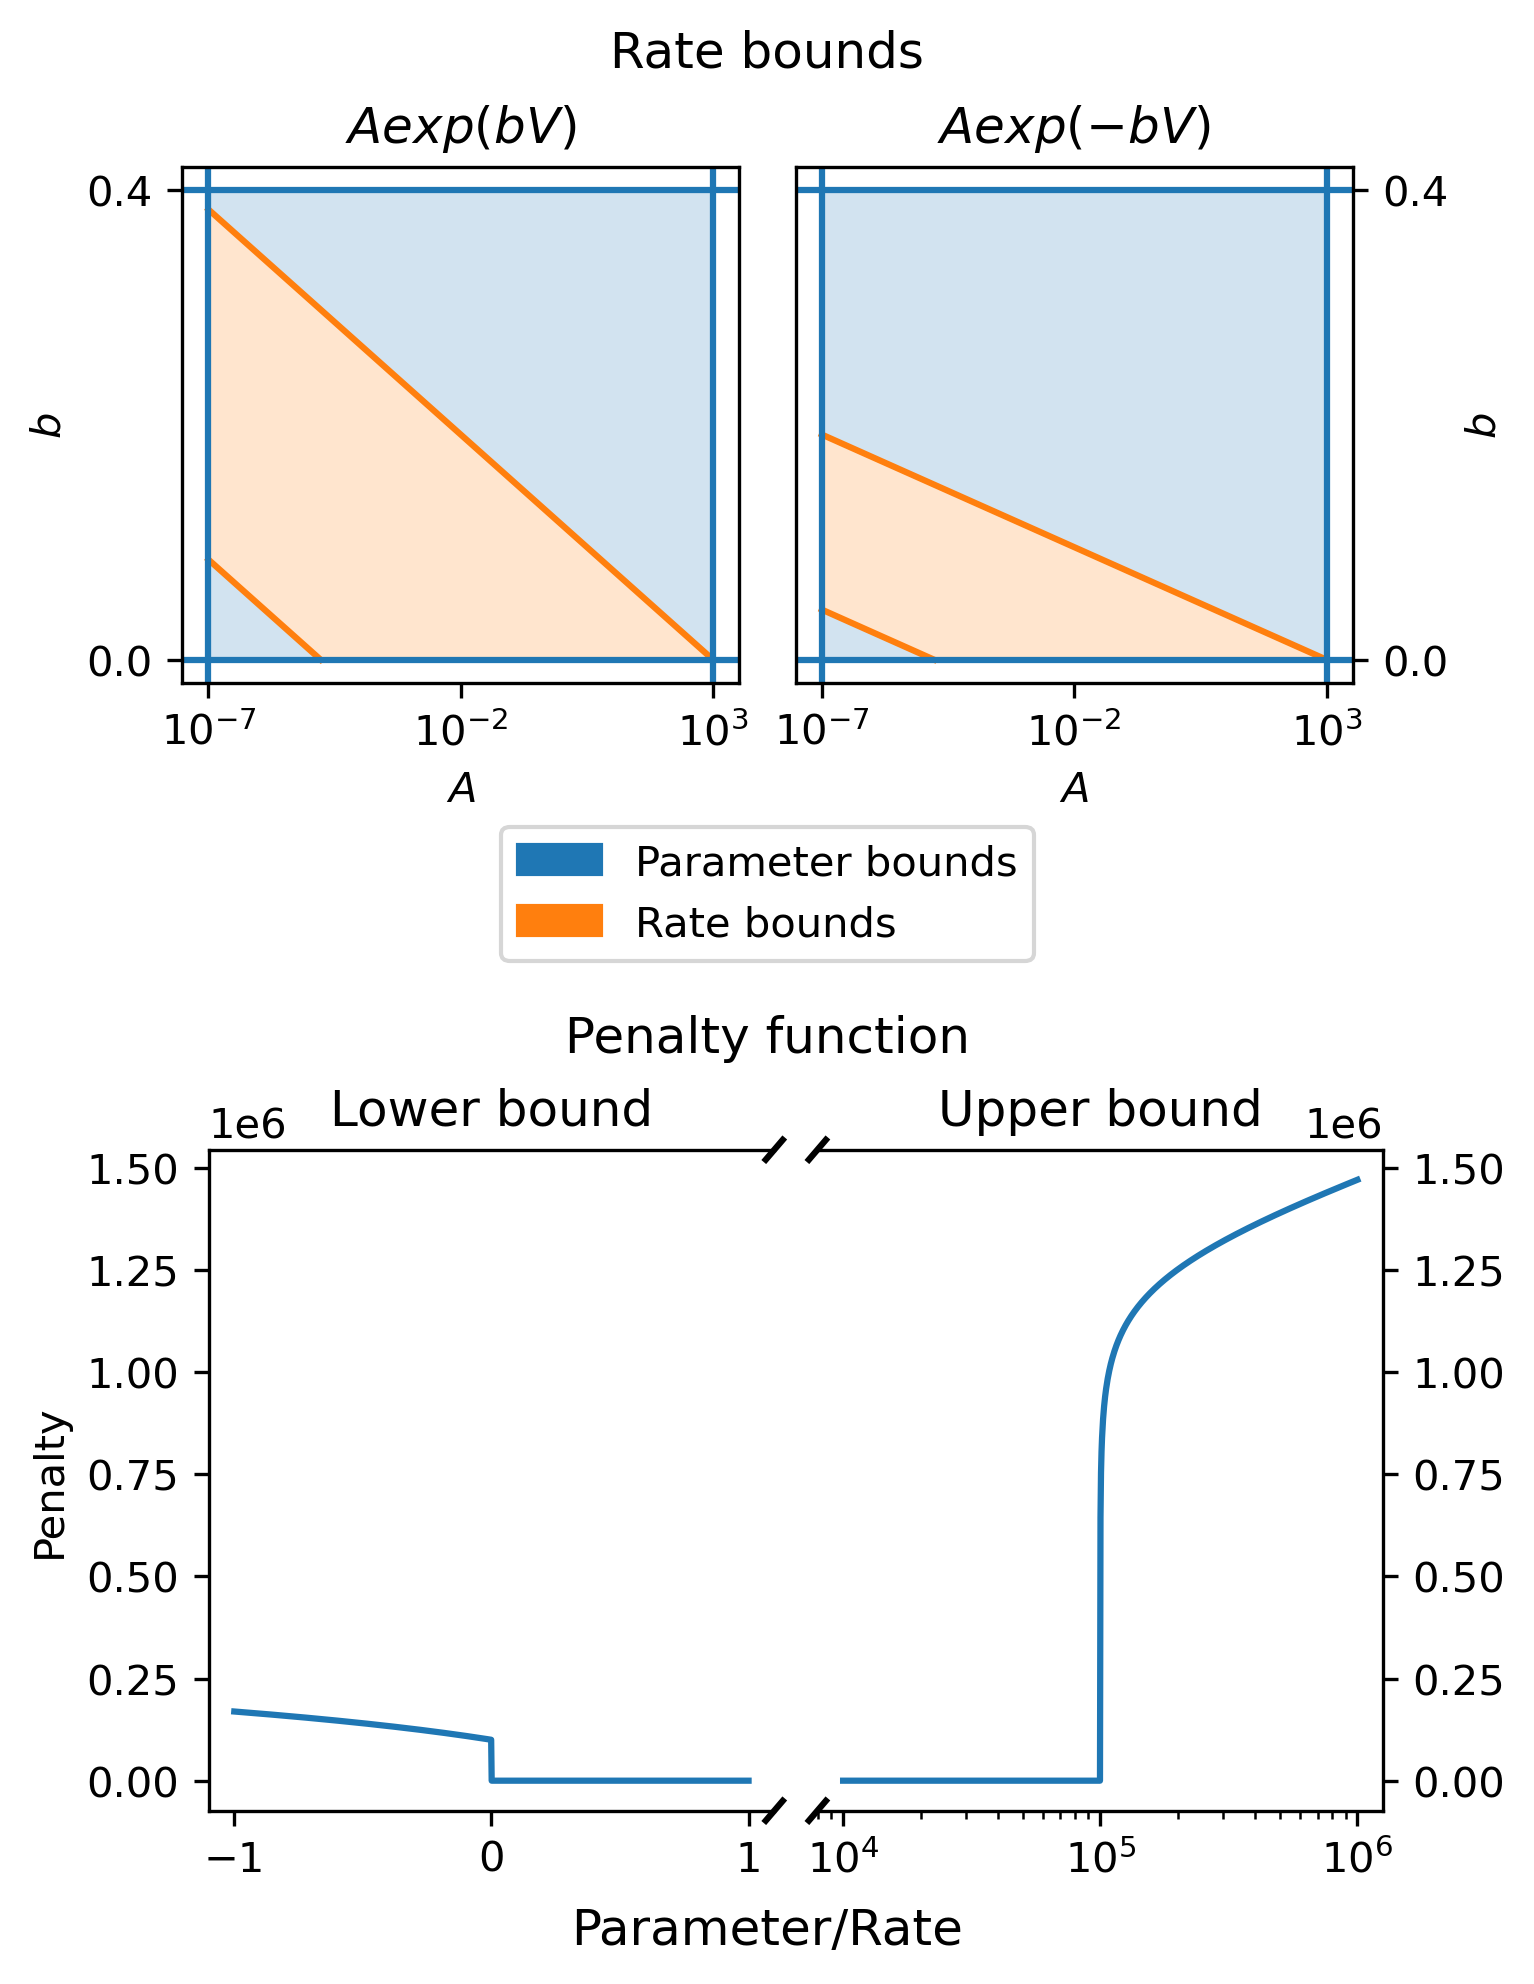
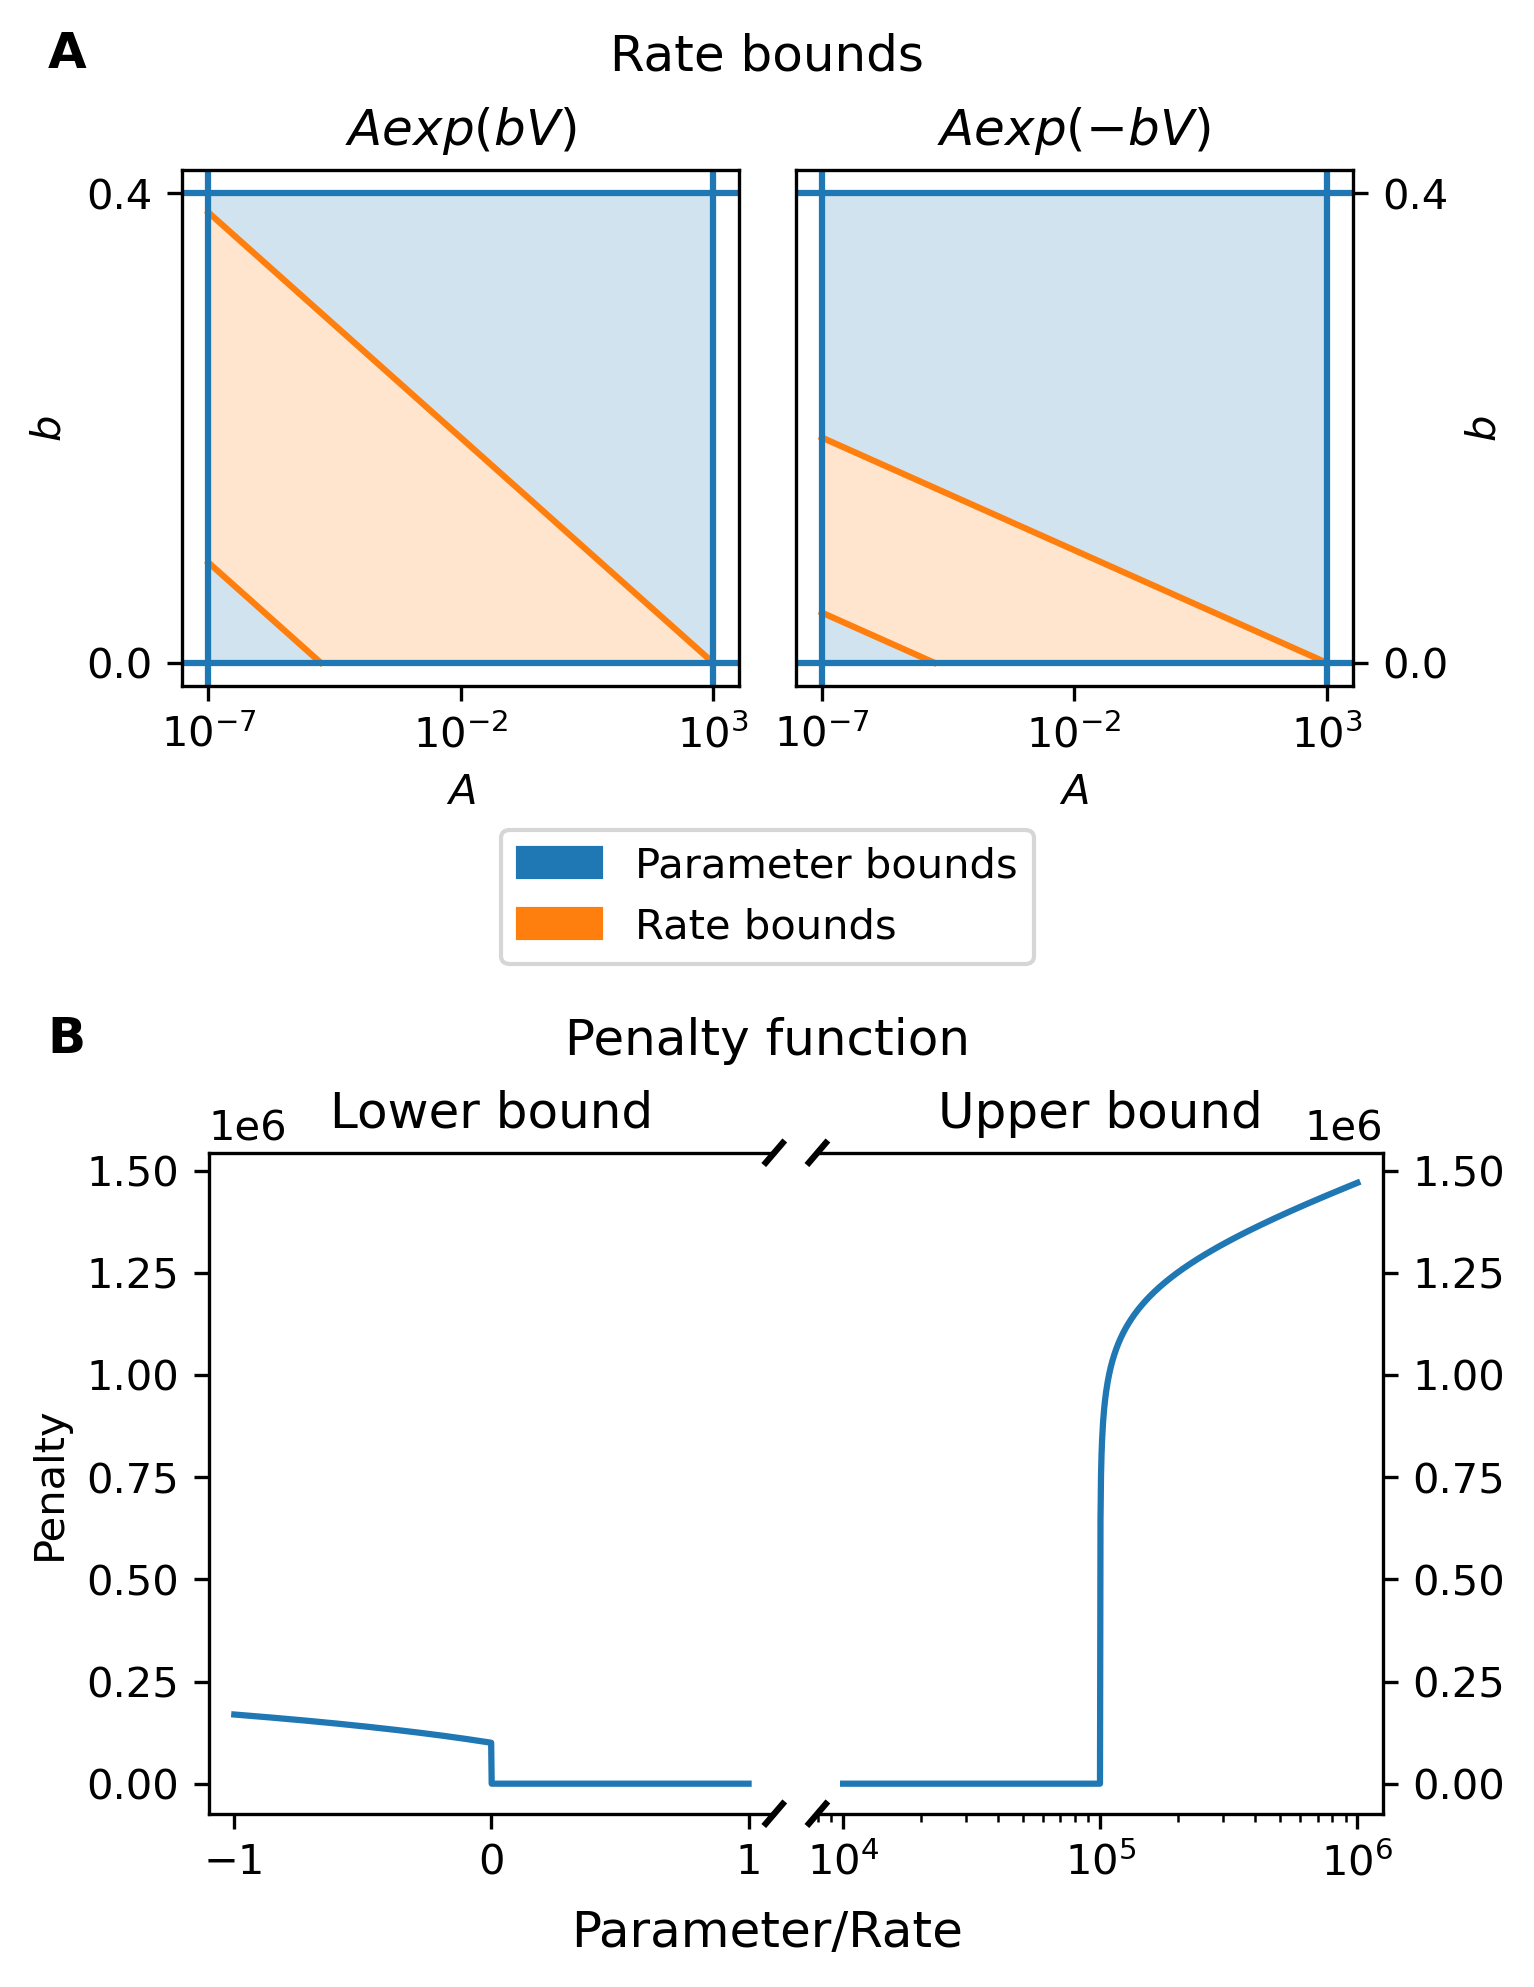
added subfigure labels to rate bounds figure

diff --git a/scripts/rateBounds.py b/scripts/rateBounds.py
@@ -152,6 +152,8 @@ def paper_plot():
     # Figure titles
     subfigs[0].suptitle('Rate bounds')
     subfigs[1].suptitle('Penalty function')
+    subfigs[0].text(0.02, 0.95, 'A', fontsize=12, fontweight='bold')
+    subfigs[1].text(0.02, 0.95, 'B', fontsize=12, fontweight='bold')
     plt.savefig(
         os.path.join(ionbench.ROOT_DIR, '..', 'scripts', 'figures', 'rateBounds.png'),
         bbox_inches='tight', dpi=300)
